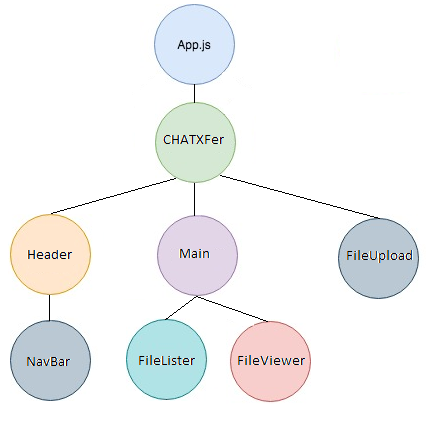
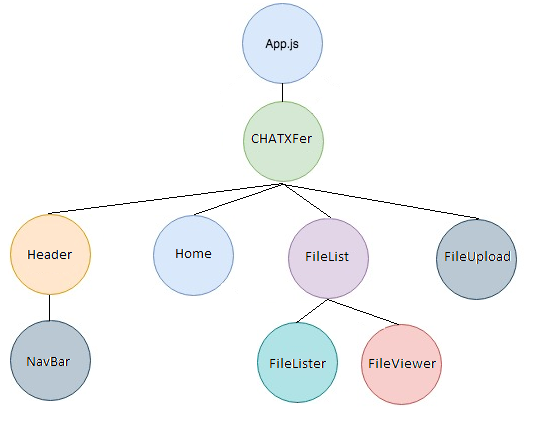
Modified the component layout disagram

diff --git a/README.md b/README.md
@@ -12,11 +12,11 @@ The user is presented an application which will allow them to view/edit/search f
 
 ## Application Image - FileList Display
 
-![Component Layout](https://github.com/ocsfwarch/chat_file_transfer_client/blob/master/Project_Docs/app_image_1.png?raw=true)
+![Component Layout](https://github.com/ocsfwarch/chat_file_transfer_client/blob/master/Project_Docs/app_image_2.png?raw=true)
 
 ## Application Image - FileUpload Display
 
-![Component Layout](https://github.com/ocsfwarch/chat_file_transfer_client/blob/master/Project_Docs/app_image_1.png?raw=true)
+![Component Layout](https://github.com/ocsfwarch/chat_file_transfer_client/blob/master/Project_Docs/app_image_3.png?raw=true)
 
 ## Use Case 1 - View the contents of a text file.
 
